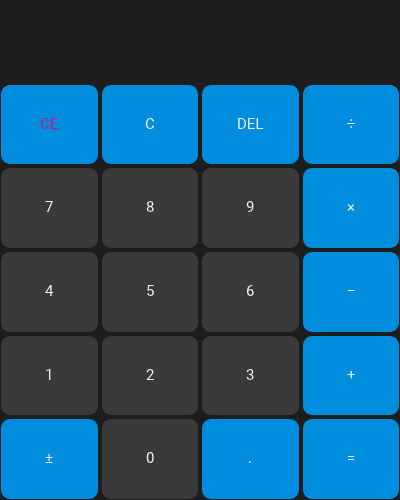
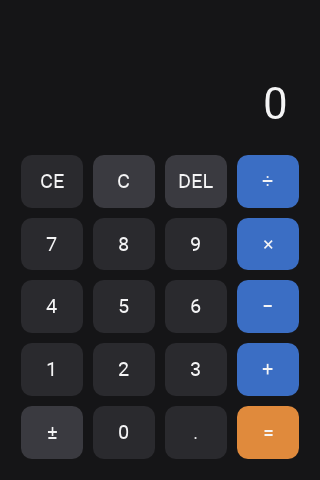
calc: rework with design tokens and key roles; before/after screenshots

diff --git a/xilem/examples/calc.rs b/xilem/examples/calc.rs
@@ -1,20 +1,87 @@
 // Copyright 2024 the Xilem Authors
 // SPDX-License-Identifier: Apache-2.0
 
-//! A simple calculator example
+//! A calculator.
+//!
+//! This is the upstream Xilem calculator reworked to look designed.
+//! Everything visible comes from the `tokens` module: spacing steps,
+//! radii, text sizes, and colors by role. The view code below has no
+//! raw numbers and no raw colors.
+//!
+//! xix note. Reworking this example forced these things, which the
+//! framework should own instead of every example:
+//! - Tokens as types: `Space`, `Radius`, `Text`, `Role` (here: consts).
+//! - Button roles (digit, operator, function, primary) with hover and
+//!   pressed colors derived from the role, not set per widget.
+//! - Relational spacing: window inset > section gap > key gap.
+//! - Text alignment to the end for a numeric display, and tabular
+//!   figures (not available yet; the display jitters as digits change).
+//! - A "display" part: a primary line and a muted secondary line.
+//! - An API trap: `label(..).color(..)` wraps the view in a style `Prop`,
+//!   after which `Label`'s own builders (`text_alignment`) are gone.
+//!   Builder order should not matter.
 
 use masonry::core::{PropertyStack, Selector};
-use masonry::layout::{AsUnit, Length};
+use masonry::properties::Dimensions;
 use masonry::properties::types::{CrossAxisAlignment, MainAxisAlignment};
 use masonry::theme::default_property_set;
 use winit::dpi::LogicalSize;
 use winit::error::EventLoopError;
-use xilem::style::{BorderColor, Style};
+use xilem::style::{Background, BorderColor, Style};
 use xilem::view::{
-    FlexSequence, FlexSpacer, GridExt, GridParams, GridSequence, GridTrackSize, button, flex_row,
-    grid, label, repeat_tracks, text_button,
+    FlexExt as _, GridSequence, GridTrackSize, button, flex_col, grid, label, repeat_tracks,
 };
-use xilem::{Color, EventLoop, EventLoopBuilder, WidgetView, WindowOptions, Xilem, palette};
+use xilem::{Color, EventLoop, EventLoopBuilder, TextAlign, WidgetView, WindowOptions, Xilem};
+
+/// Design tokens. The only place in this file where a number or a color is written.
+mod tokens {
+    use masonry::layout::Length;
+    use xilem::Color;
+
+    /// Spacing scale, 4 pt base.
+    pub(crate) mod space {
+        use super::Length;
+        pub(crate) const XS: Length = Length::const_px(4.);
+        pub(crate) const S: Length = Length::const_px(8.);
+        pub(crate) const M: Length = Length::const_px(12.);
+        pub(crate) const L: Length = Length::const_px(20.);
+    }
+
+    pub(crate) mod radius {
+        use super::Length;
+        pub(crate) const M: Length = Length::const_px(12.);
+    }
+
+    /// Text sizes, in px.
+    pub(crate) mod text {
+        pub(crate) const DISPLAY: f32 = 44.;
+        pub(crate) const SECONDARY: f32 = 18.;
+        pub(crate) const KEY: f32 = 20.;
+    }
+
+    /// Colors by role.
+    pub(crate) mod role {
+        use super::Color;
+        pub(crate) const SURFACE: Color = Color::from_rgb8(0x15, 0x15, 0x17);
+        pub(crate) const TEXT: Color = Color::from_rgb8(0xf4, 0xf4, 0xf5);
+        pub(crate) const TEXT_MUTED: Color = Color::from_rgb8(0x8f, 0x8f, 0x97);
+
+        /// Digit keys.
+        pub(crate) const KEY: Color = Color::from_rgb8(0x2a, 0x2a, 0x2e);
+        /// Function keys: clear, delete, negate.
+        pub(crate) const KEY_FUNCTION: Color = Color::from_rgb8(0x3a, 0x3a, 0x40);
+        /// Operator keys.
+        pub(crate) const KEY_OPERATOR: Color = Color::from_rgb8(0x3b, 0x6e, 0xc4);
+        /// The primary action: equals.
+        pub(crate) const KEY_PRIMARY: Color = Color::from_rgb8(0xe0, 0x8a, 0x3c);
+
+        /// Hover and pressed states are the same overlay for every key role.
+        pub(crate) const KEY_HOVER_BORDER: Color = Color::from_rgba8(0xff, 0xff, 0xff, 0x40);
+        pub(crate) const KEY_PRESSED: Color = Color::from_rgba8(0xff, 0xff, 0xff, 0x24);
+    }
+}
+
+use tokens::{radius, role, space, text};
 
 #[derive(Copy, Clone)]
 enum MathOperator {
@@ -190,108 +257,144 @@ impl Calculator {
         }
         self.set_current_number(num);
     }
+
+    /// The secondary display line: the pending expression.
+    fn expression_text(&self) -> String {
+        let mut parts: Vec<&str> = Vec::new();
+        if self.operation.is_some() || self.result.is_some() {
+            parts.push(&self.numbers[0]);
+        }
+        if let Some(op) = self.operation {
+            parts.push(op.as_str());
+        }
+        if self.result.is_some() {
+            parts.push(&self.numbers[1]);
+            parts.push("=");
+        }
+        parts.join(" ")
+    }
+
+    /// The primary display line: the result, or the number being entered.
+    fn entry_text(&self) -> String {
+        if let Some(result) = &self.result {
+            return result.clone();
+        }
+        let current = self.current_number();
+        if current.is_empty() {
+            "0".into()
+        } else {
+            current.to_string()
+        }
+    }
 }
 
-fn num_row(nums: [&'static str; 3]) -> impl GridSequence<Calculator> {
-    nums.map(digit_button)
+/// Which kind of key a button is. Decides its color.
+#[derive(Copy, Clone)]
+enum KeyRole {
+    Digit,
+    Function,
+    Operator,
+    Primary,
 }
 
-const DISPLAY_FONT_SIZE: f32 = 30.;
-const GRID_GAP: Length = Length::const_px(2.);
-fn app_logic(data: &mut Calculator) -> impl WidgetView<Calculator> + use<> {
-    grid((
-        // Display
-        centered_flex_row((
-            FlexSpacer::Flex(0.1),
-            display_label(data.numbers[0].as_ref()),
-            data.operation
-                .map(|operation| display_label(operation.as_str())),
-            display_label(data.numbers[1].as_ref()),
-            data.result.is_some().then(|| display_label("=")),
-            data.result
-                .as_ref()
-                .map(|result| display_label(result.as_ref())),
-            FlexSpacer::Flex(0.1),
-        ))
-        .grid_params(GridParams::new().with_width(4)),
-        // Top row
-        one_button(
-            label("CE").color(if data.get_current_number().is_empty() {
-                palette::css::MEDIUM_VIOLET_RED
-            } else {
-                palette::css::WHITE
-            }),
-            Calculator::clear_entry,
-        ),
-        one_button(label("C"), Calculator::clear_all),
-        one_button(label("DEL"), Calculator::on_delete),
-        operator_button(MathOperator::Divide),
-        num_row(["7", "8", "9"]),
-        operator_button(MathOperator::Multiply),
-        num_row(["4", "5", "6"]),
-        operator_button(MathOperator::Subtract),
-        num_row(["1", "2", "3"]),
-        operator_button(MathOperator::Add),
-        // bottom row
-        one_button(label("±"), Calculator::negate),
-        digit_button("0"),
-        one_button(label("."), |data: &mut Calculator| {
-            data.on_entered_digit(".");
-        }),
-        one_button(label("="), Calculator::on_equals),
-    ))
-    .columns(repeat_tracks(4, GridTrackSize::FRACTION))
-    .rows(repeat_tracks(6, GridTrackSize::FRACTION))
-    .gap(GRID_GAP)
+impl KeyRole {
+    fn color(self) -> Color {
+        match self {
+            Self::Digit => role::KEY,
+            Self::Function => role::KEY_FUNCTION,
+            Self::Operator => role::KEY_OPERATOR,
+            Self::Primary => role::KEY_PRIMARY,
+        }
+    }
 }
 
-/// Creates a horizontal centered flex row designed for the display portion of the calculator.
-fn centered_flex_row<State: 'static, Seq: FlexSequence<State> + Send + Sync + 'static>(
-    sequence: Seq,
-) -> impl WidgetView<State, ()> {
-    flex_row(sequence)
-        .cross_axis_alignment(CrossAxisAlignment::Center)
-        .main_axis_alignment(MainAxisAlignment::Start)
-        .gap(5.px())
-}
-
-/// Returns a label intended to be used in the calculator's top display.
-/// The default text size is out of proportion for this use case.
-fn display_label(text: &str) -> impl WidgetView<Calculator> + use<> {
-    label(text).text_size(DISPLAY_FONT_SIZE)
-}
-
-/// Returns one button
-fn one_button(
-    content: impl WidgetView<Calculator>,
+/// One calculator key.
+fn key(
+    text: &'static str,
+    key_role: KeyRole,
     callback: impl Fn(&mut Calculator) + Send + Sync + 'static,
 ) -> impl WidgetView<Calculator> {
-    const BLUE: Color = Color::from_rgb8(0x00, 0x8d, 0xdd);
-    button(content, callback)
-        .background_color(BLUE)
-        .corner_radius(10.px())
+    button(label(text).text_size(text::KEY).color(role::TEXT), callback)
+        .dims(Dimensions::STRETCH)
+        .background_color(key_role.color())
+        .corner_radius(radius::M)
 }
 
-/// Returns a button that triggers the calculator's operator handler,
-/// `on_entered_operator()`.
-fn operator_button(math_operator: MathOperator) -> impl WidgetView<Calculator> {
-    one_button(
-        label(math_operator.as_str()),
+fn digit(digit: &'static str) -> impl WidgetView<Calculator> {
+    key(digit, KeyRole::Digit, |data: &mut Calculator| {
+        data.on_entered_digit(digit);
+    })
+}
+
+fn operator(math_operator: MathOperator) -> impl WidgetView<Calculator> {
+    key(
+        math_operator.as_str(),
+        KeyRole::Operator,
         move |data: &mut Calculator| {
             data.on_entered_operator(math_operator);
         },
     )
 }
 
-/// A button which adds `digit` to the current input when pressed
-fn digit_button(digit: &'static str) -> impl WidgetView<Calculator> {
-    const GRAY: Color = Color::from_rgb8(0x3a, 0x3a, 0x3a);
+fn digit_row(nums: [&'static str; 3]) -> impl GridSequence<Calculator> {
+    nums.map(digit)
+}
 
-    text_button(digit, |data: &mut Calculator| {
-        data.on_entered_digit(digit);
-    })
-    .background_color(GRAY)
-    .corner_radius(10.px())
+/// The display: a muted expression line above the entry line, both aligned to the end.
+fn display(data: &Calculator) -> impl WidgetView<Calculator> + use<> {
+    flex_col((
+        label(data.expression_text())
+            .text_size(text::SECONDARY)
+            .text_alignment(TextAlign::End)
+            .color(role::TEXT_MUTED),
+        label(data.entry_text())
+            .text_size(text::DISPLAY)
+            .text_alignment(TextAlign::End)
+            .color(role::TEXT),
+    ))
+    .cross_axis_alignment(CrossAxisAlignment::End)
+    .main_axis_alignment(MainAxisAlignment::End)
+    .gap(space::XS)
+    .padding(space::M)
+}
+
+fn keypad(data: &Calculator) -> impl WidgetView<Calculator> + use<> {
+    let can_clear_entry = !data.get_current_number().is_empty() || data.result.is_some();
+    grid((
+        key(
+            "CE",
+            if can_clear_entry {
+                KeyRole::Function
+            } else {
+                KeyRole::Digit
+            },
+            Calculator::clear_entry,
+        ),
+        key("C", KeyRole::Function, Calculator::clear_all),
+        key("DEL", KeyRole::Function, Calculator::on_delete),
+        operator(MathOperator::Divide),
+        digit_row(["7", "8", "9"]),
+        operator(MathOperator::Multiply),
+        digit_row(["4", "5", "6"]),
+        operator(MathOperator::Subtract),
+        digit_row(["1", "2", "3"]),
+        operator(MathOperator::Add),
+        key("±", KeyRole::Function, Calculator::negate),
+        digit("0"),
+        key(".", KeyRole::Digit, |data: &mut Calculator| {
+            data.on_entered_digit(".");
+        }),
+        key("=", KeyRole::Primary, Calculator::on_equals),
+    ))
+    .columns(repeat_tracks(4, GridTrackSize::FRACTION))
+    .rows(repeat_tracks(5, GridTrackSize::FRACTION))
+    .gap(space::S)
+}
+
+fn app_logic(data: &mut Calculator) -> impl WidgetView<Calculator> + use<> {
+    flex_col((display(data).flex(1.), keypad(data).flex(2.5)))
+        .gap(space::M)
+        .padding(space::L)
 }
 
 pub(crate) fn run(event_loop: EventLoopBuilder) -> Result<(), EventLoopError> {
@@ -303,25 +406,31 @@ pub(crate) fn run(event_loop: EventLoopBuilder) -> Result<(), EventLoopError> {
         operation: None,
     };
 
-    // TODO - Find a more ergonomic way to express this in Xilem.
+    // Key states: no resting border, a light border on hover, a light overlay when pressed.
+    // TODO(xix): this belongs to a button role in the theme, not to the app.
     let mut default_properties = default_property_set();
     let mut stack = PropertyStack::new();
     stack.push(Selector::new(), BorderColor::new(Color::TRANSPARENT));
     stack.push(
         Selector::new().with_hovered(true),
-        BorderColor::new(Color::WHITE),
+        BorderColor::new(role::KEY_HOVER_BORDER),
+    );
+    stack.push(
+        Selector::new().with_active(true),
+        Background::Color(role::KEY_PRESSED),
     );
     default_properties.insert_stack::<masonry::widgets::Button>(stack);
 
-    let min_window_size = LogicalSize::new(200., 200.);
-    let window_size = LogicalSize::new(400., 500.);
+    let min_window_size = LogicalSize::new(240., 360.);
+    let window_size = LogicalSize::new(320., 480.);
     let window_options = WindowOptions::new("Calculator").with_min_inner_size(min_window_size);
     // On iOS, winit has unsensible handling of `inner_size`
     // See https://github.com/rust-windowing/winit/issues/2308 for more details
     #[cfg(not(target_os = "ios"))]
     let window_options = window_options.with_initial_inner_size(window_size);
     let app = Xilem::new_simple(data, app_logic, window_options)
-        .with_default_properties(default_properties);
+        .with_default_properties(default_properties)
+        .with_default_base_color(role::SURFACE);
     app.run_in(event_loop)?;
     Ok(())
 }

diff --git a/PLAN.md b/PLAN.md
@@ -668,6 +668,17 @@ Example roadmap, in order:
 3. **Placehero** stays as upstream's dogfooding app until the
    agentic programming tool replaces it.
 
+Progress: `calc` reworked 2026-08-22 (`screenshots/before/calc.png`
+versus `screenshots/calc.png`). What it forced: tokens as consts
+(space, radius, text, role), key roles with shared hover and pressed
+states, relational spacing (inset 20, section gap 12, key gap 8),
+`Dimensions::STRETCH` to fill grid cells, end-aligned display text,
+and one API trap: `label(..).color(..)` wraps the view in a `Prop`,
+after which `Label`'s own builders are gone, so builder order matters.
+Missing: tabular figures, and an event-injection path in the
+screenshot tool so a render can show a state other than the initial
+one.
+
 Rules while doing this: headless screenshots for review (no GUI
 launches while the user is active), one commit per example, and
 write what each example forced into the framework in a short note
